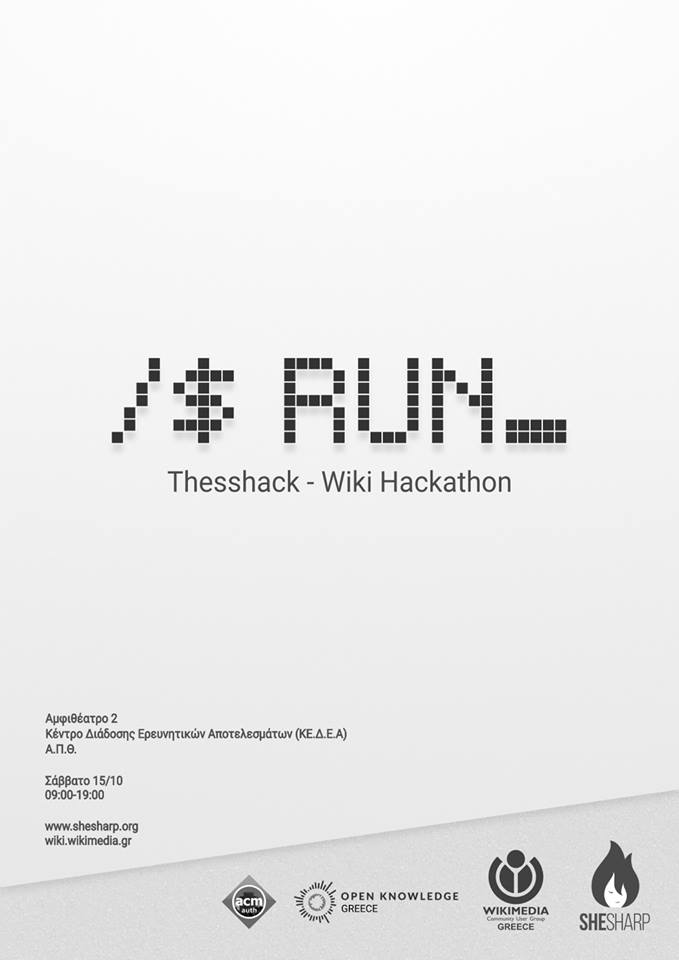
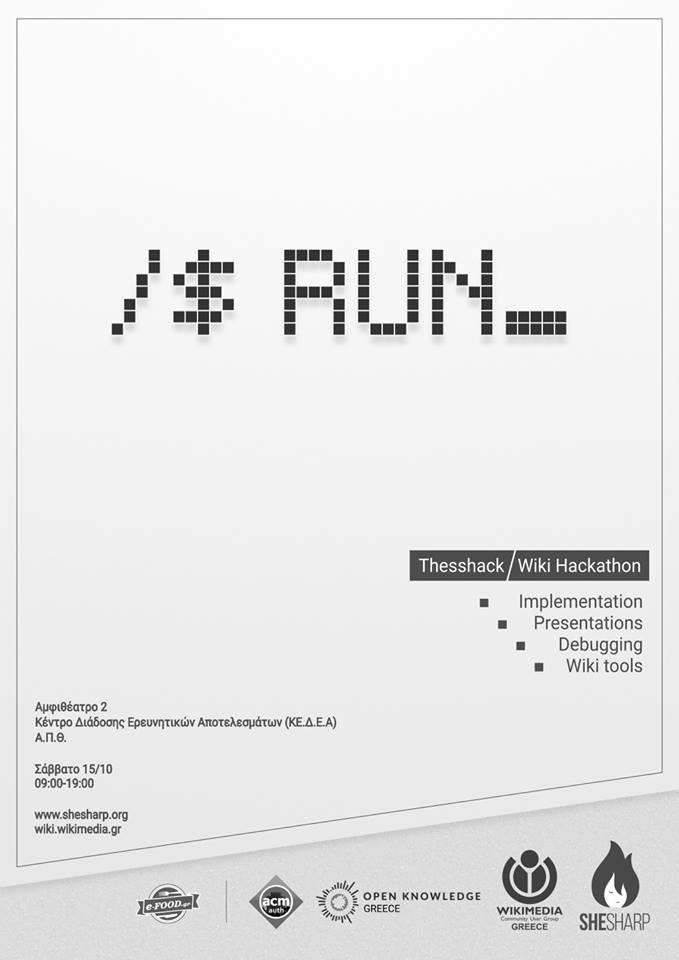
Some more changes for thesshack-wiki-hackathon

diff --git a/_posts/2016-10-15-thesshack-wiki-hackathon.md b/_posts/2016-10-15-thesshack-wiki-hackathon.md
@@ -36,17 +36,19 @@ KEDEA AUTh
 ## Preliminary program
 
 ```
-09:00 – 09:30 Registrations
-09:30 – 10:00 Welcome
-10:00 – 10:10: DBpedia
-10:10 – 10:20: AutoWikiBrowser
-10:20 – 10:30: Phabricator
-10:30 – 10:50: theSShack Guidelines
-10:50 – 13:30 Hacking
-13:30 – 14:30 Food & Networking Break
-14:30 – 18:30 Hacking
-18:30 – 19:00 Closing Ceremony – Awards
-19:00 - 03:00 After party
+09:00–09:30 Registrations
+09:30–10:00 Welcome
+10:00–10:10 DBpedia
+10:10–10:20 AutoWikiBrowser
+10:20–10:30 Phabricator
+10:30–10:40 API
+10:40–11:00 theSShack Guidelines
+11:00–13:30 Hacking
+13:30–14:30 Food & Networking Break
+14:30–18:30 Hacking
+18:30–19:00 Closing Ceremony – Awards
+19:00–20:00 Pizza time! (sponsored by e-food.gr)
+20:00-03:00 After party
 ```
 
 <p><a href="../assets/thesshack-wiki-hackathon/poster.png"><img class="center" alt="thesshack-wiki-hackathon-poster" height="1024" width="724" src="../assets/thesshack-wiki-hackathon/poster.png"/></a></p>
